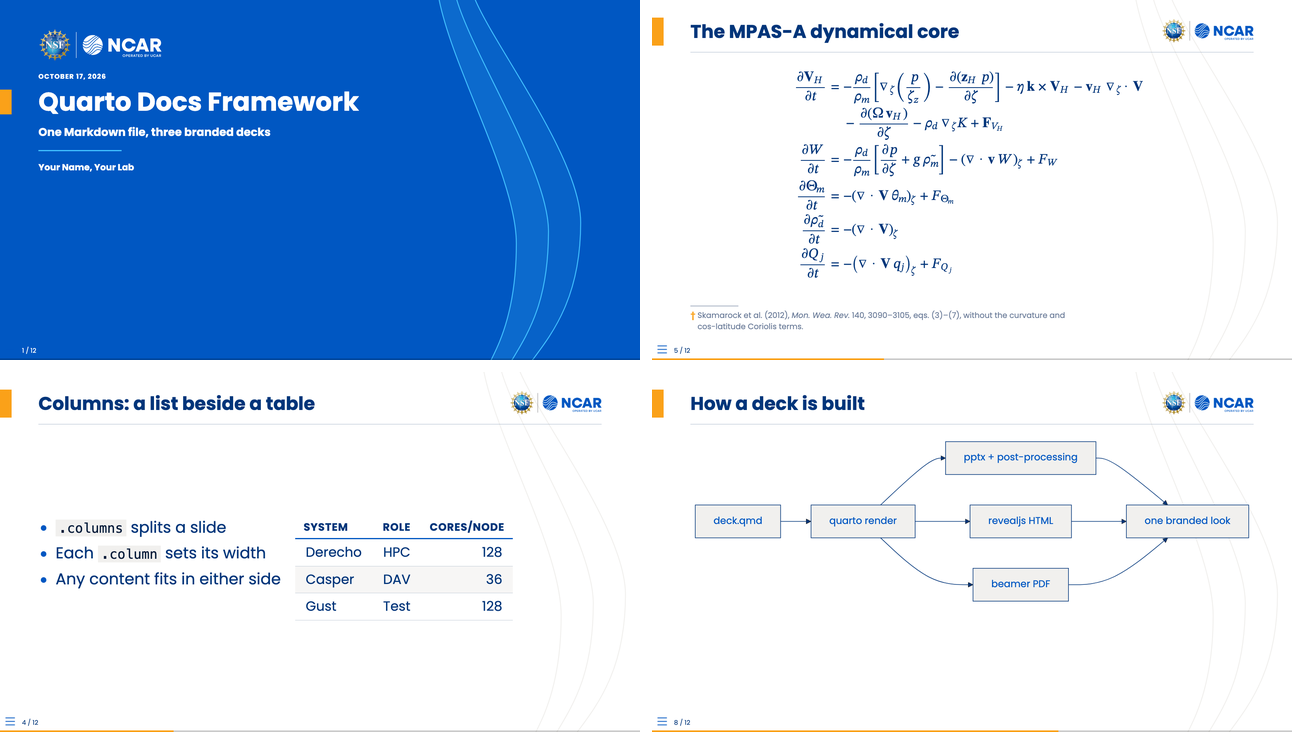
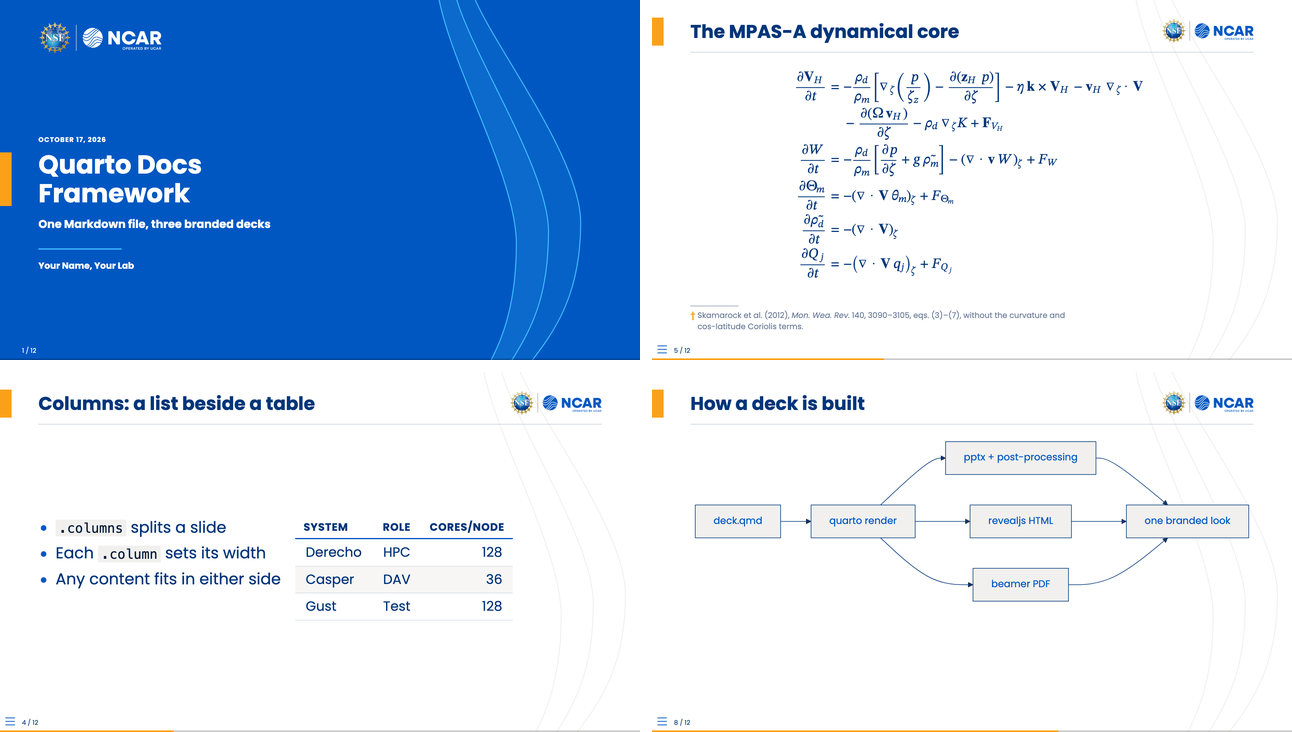
Docs for compositions and the type scale; vendor engine #29, #30 (ncar's lowered title); README images
Vendors the sprint's last engine steps: ncar's cover title from the brand pptx's 0.375 date
line (its flavors with it) and the engine docs. Design doc: section 4 names the feature and
compositions keys and livery.json's compositions and type; section 5 states the composition
contract (a new look is a box override, not a drawer) and the type scale; section 7 marks
the step done; section 10 logs it. CLAUDE.md: the roadmap's next step is NASA; a
Compositions bullet (the names, the drawers, `make measure`, the pptx's stack limits)
replaces the photo-slides one, and a Type bullet joins it. README: the photo title and
feature follow the livery's compositions and feature.style. nsi's notes: title=light under
the band is resolved (ignored, with a warning, in every format). The README images
(screenshots, the livery gallery) are reshot.

Claude-Session: https://claude.ai/code/session_01QxTZPtUJESWqMyXE15JCRv

Changed region(s): [[0.0, 0.0301, 0.2786, 0.3907]]

diff --git a/docs/common/_extensions/benkirk/engine/liveries/ncar/build/livery.css b/docs/common/_extensions/benkirk/engine/liveries/ncar/build/livery.css
@@ -110,9 +110,9 @@ div.reveal div.slides section.engine-title.quarto-title-block {
   --engine-cmp-signoff-b: 900px;
   --engine-cmp-column-display: block;
   --engine-cmp-column-x: 96px;
-  --engine-cmp-column-y: 180px;
+  --engine-cmp-column-y: 337.5px;
   --engine-cmp-column-w: 800px;
-  --engine-cmp-column-h: 594px;
+  --engine-cmp-column-h: 436.5px;
   --engine-cmp-column-r: 704px;
   --engine-cmp-column-b: 126px;
   --engine-cmp-fineprint-display: block;
@@ -186,9 +186,9 @@ div.reveal div.slides section.engine-title.quarto-title-block.engine-title-photo
   --engine-cmp-signoff-b: 900px;
   --engine-cmp-column-display: block;
   --engine-cmp-column-x: 96px;
-  --engine-cmp-column-y: 180px;
+  --engine-cmp-column-y: 337.5px;
   --engine-cmp-column-w: 704px;
-  --engine-cmp-column-h: 594px;
+  --engine-cmp-column-h: 436.5px;
   --engine-cmp-column-r: 800px;
   --engine-cmp-column-b: 126px;
   --engine-cmp-fineprint-display: block;
@@ -262,9 +262,9 @@ html.engine-title-light div.reveal div.slides section.engine-title.quarto-title-
   --engine-cmp-signoff-b: 900px;
   --engine-cmp-column-display: block;
   --engine-cmp-column-x: 96px;
-  --engine-cmp-column-y: 180px;
+  --engine-cmp-column-y: 337.5px;
   --engine-cmp-column-w: 800px;
-  --engine-cmp-column-h: 594px;
+  --engine-cmp-column-h: 436.5px;
   --engine-cmp-column-r: 704px;
   --engine-cmp-column-b: 126px;
   --engine-cmp-fineprint-display: block;
@@ -338,9 +338,9 @@ html.engine-title-light div.reveal div.slides section.engine-title.quarto-title-
   --engine-cmp-signoff-b: 900px;
   --engine-cmp-column-display: block;
   --engine-cmp-column-x: 96px;
-  --engine-cmp-column-y: 180px;
+  --engine-cmp-column-y: 337.5px;
   --engine-cmp-column-w: 704px;
-  --engine-cmp-column-h: 594px;
+  --engine-cmp-column-h: 436.5px;
   --engine-cmp-column-r: 800px;
   --engine-cmp-column-b: 126px;
   --engine-cmp-fineprint-display: block;

diff --git a/docs/common/_extensions/benkirk/engine/liveries/ncarucar/build/livery.css b/docs/common/_extensions/benkirk/engine/liveries/ncarucar/build/livery.css
@@ -110,9 +110,9 @@ div.reveal div.slides section.engine-title.quarto-title-block {
   --engine-cmp-signoff-b: 900px;
   --engine-cmp-column-display: block;
   --engine-cmp-column-x: 96px;
-  --engine-cmp-column-y: 180px;
+  --engine-cmp-column-y: 337.5px;
   --engine-cmp-column-w: 800px;
-  --engine-cmp-column-h: 594px;
+  --engine-cmp-column-h: 436.5px;
   --engine-cmp-column-r: 704px;
   --engine-cmp-column-b: 126px;
   --engine-cmp-fineprint-display: block;
@@ -186,9 +186,9 @@ div.reveal div.slides section.engine-title.quarto-title-block.engine-title-photo
   --engine-cmp-signoff-b: 900px;
   --engine-cmp-column-display: block;
   --engine-cmp-column-x: 96px;
-  --engine-cmp-column-y: 180px;
+  --engine-cmp-column-y: 337.5px;
   --engine-cmp-column-w: 704px;
-  --engine-cmp-column-h: 594px;
+  --engine-cmp-column-h: 436.5px;
   --engine-cmp-column-r: 800px;
   --engine-cmp-column-b: 126px;
   --engine-cmp-fineprint-display: block;
@@ -262,9 +262,9 @@ html.engine-title-light div.reveal div.slides section.engine-title.quarto-title-
   --engine-cmp-signoff-b: 900px;
   --engine-cmp-column-display: block;
   --engine-cmp-column-x: 96px;
-  --engine-cmp-column-y: 180px;
+  --engine-cmp-column-y: 337.5px;
   --engine-cmp-column-w: 800px;
-  --engine-cmp-column-h: 594px;
+  --engine-cmp-column-h: 436.5px;
   --engine-cmp-column-r: 704px;
   --engine-cmp-column-b: 126px;
   --engine-cmp-fineprint-display: block;
@@ -338,9 +338,9 @@ html.engine-title-light div.reveal div.slides section.engine-title.quarto-title-
   --engine-cmp-signoff-b: 900px;
   --engine-cmp-column-display: block;
   --engine-cmp-column-x: 96px;
-  --engine-cmp-column-y: 180px;
+  --engine-cmp-column-y: 337.5px;
   --engine-cmp-column-w: 704px;
-  --engine-cmp-column-h: 594px;
+  --engine-cmp-column-h: 436.5px;
   --engine-cmp-column-r: 800px;
   --engine-cmp-column-b: 126px;
   --engine-cmp-fineprint-display: block;

diff --git a/docs/common/_extensions/benkirk/engine/liveries/ucar/build/livery.css b/docs/common/_extensions/benkirk/engine/liveries/ucar/build/livery.css
@@ -110,9 +110,9 @@ div.reveal div.slides section.engine-title.quarto-title-block {
   --engine-cmp-signoff-b: 900px;
   --engine-cmp-column-display: block;
   --engine-cmp-column-x: 96px;
-  --engine-cmp-column-y: 180px;
+  --engine-cmp-column-y: 337.5px;
   --engine-cmp-column-w: 800px;
-  --engine-cmp-column-h: 594px;
+  --engine-cmp-column-h: 436.5px;
   --engine-cmp-column-r: 704px;
   --engine-cmp-column-b: 126px;
   --engine-cmp-fineprint-display: block;
@@ -186,9 +186,9 @@ div.reveal div.slides section.engine-title.quarto-title-block.engine-title-photo
   --engine-cmp-signoff-b: 900px;
   --engine-cmp-column-display: block;
   --engine-cmp-column-x: 96px;
-  --engine-cmp-column-y: 180px;
+  --engine-cmp-column-y: 337.5px;
   --engine-cmp-column-w: 704px;
-  --engine-cmp-column-h: 594px;
+  --engine-cmp-column-h: 436.5px;
   --engine-cmp-column-r: 800px;
   --engine-cmp-column-b: 126px;
   --engine-cmp-fineprint-display: block;
@@ -262,9 +262,9 @@ html.engine-title-light div.reveal div.slides section.engine-title.quarto-title-
   --engine-cmp-signoff-b: 900px;
   --engine-cmp-column-display: block;
   --engine-cmp-column-x: 96px;
-  --engine-cmp-column-y: 180px;
+  --engine-cmp-column-y: 337.5px;
   --engine-cmp-column-w: 800px;
-  --engine-cmp-column-h: 594px;
+  --engine-cmp-column-h: 436.5px;
   --engine-cmp-column-r: 704px;
   --engine-cmp-column-b: 126px;
   --engine-cmp-fineprint-display: block;
@@ -338,9 +338,9 @@ html.engine-title-light div.reveal div.slides section.engine-title.quarto-title-
   --engine-cmp-signoff-b: 900px;
   --engine-cmp-column-display: block;
   --engine-cmp-column-x: 96px;
-  --engine-cmp-column-y: 180px;
+  --engine-cmp-column-y: 337.5px;
   --engine-cmp-column-w: 704px;
-  --engine-cmp-column-h: 594px;
+  --engine-cmp-column-h: 436.5px;
   --engine-cmp-column-r: 800px;
   --engine-cmp-column-b: 126px;
   --engine-cmp-fineprint-display: block;

diff --git a/docs/common/_extensions/benkirk/engine/liveries/ucp/build/livery.css b/docs/common/_extensions/benkirk/engine/liveries/ucp/build/livery.css
@@ -110,9 +110,9 @@ div.reveal div.slides section.engine-title.quarto-title-block {
   --engine-cmp-signoff-b: 900px;
   --engine-cmp-column-display: block;
   --engine-cmp-column-x: 96px;
-  --engine-cmp-column-y: 180px;
+  --engine-cmp-column-y: 337.5px;
   --engine-cmp-column-w: 800px;
-  --engine-cmp-column-h: 594px;
+  --engine-cmp-column-h: 436.5px;
   --engine-cmp-column-r: 704px;
   --engine-cmp-column-b: 126px;
   --engine-cmp-fineprint-display: block;
@@ -186,9 +186,9 @@ div.reveal div.slides section.engine-title.quarto-title-block.engine-title-photo
   --engine-cmp-signoff-b: 900px;
   --engine-cmp-column-display: block;
   --engine-cmp-column-x: 96px;
-  --engine-cmp-column-y: 180px;
+  --engine-cmp-column-y: 337.5px;
   --engine-cmp-column-w: 704px;
-  --engine-cmp-column-h: 594px;
+  --engine-cmp-column-h: 436.5px;
   --engine-cmp-column-r: 800px;
   --engine-cmp-column-b: 126px;
   --engine-cmp-fineprint-display: block;
@@ -262,9 +262,9 @@ html.engine-title-light div.reveal div.slides section.engine-title.quarto-title-
   --engine-cmp-signoff-b: 900px;
   --engine-cmp-column-display: block;
   --engine-cmp-column-x: 96px;
-  --engine-cmp-column-y: 180px;
+  --engine-cmp-column-y: 337.5px;
   --engine-cmp-column-w: 800px;
-  --engine-cmp-column-h: 594px;
+  --engine-cmp-column-h: 436.5px;
   --engine-cmp-column-r: 704px;
   --engine-cmp-column-b: 126px;
   --engine-cmp-fineprint-display: block;
@@ -338,9 +338,9 @@ html.engine-title-light div.reveal div.slides section.engine-title.quarto-title-
   --engine-cmp-signoff-b: 900px;
   --engine-cmp-column-display: block;
   --engine-cmp-column-x: 96px;
-  --engine-cmp-column-y: 180px;
+  --engine-cmp-column-y: 337.5px;
   --engine-cmp-column-w: 704px;
-  --engine-cmp-column-h: 594px;
+  --engine-cmp-column-h: 436.5px;
   --engine-cmp-column-r: 800px;
   --engine-cmp-column-b: 126px;
   --engine-cmp-fineprint-display: block;

diff --git a/docs/design/engine-and-liveries.md b/docs/design/engine-and-liveries.md
@@ -154,6 +154,8 @@ liveries/<name>/
                   each field wears by its role (background, primary, the band's field);
                   installed-fonts {base, headings}: installed faces preferred over the
                   bundled ones; pptx {template, fonts, typeface, heading-typeface, scheme};
+                  feature {style: bar | cover}: the photo slide's look; compositions
+                  {<name>: {<key>: ...}}: overrides of the composition boxes (section 5);
                   aspect (16:9 default); overrides. Any other key is warned about
   template.pptx   THE SPEC: pandoc-compliant, derived from the reference deck (section 6)
   logos/          pdf (LaTeX) and png/svg (web, RGB), same basenames, light and dark variants
@@ -167,8 +169,9 @@ liveries/<name>/
   reference/      the customer's deck(s), extracted media, report.md, onboarding notes.
                   Never read at build time
   build/          GENERATED by livery_build.py, committed, freshness checked in CI:
-                  livery.json   the one resolved truth, extends applied, geometry included;
-                                Lua (quarto.json) and Python both read it
+                  livery.json   the one resolved truth, extends applied, geometry, marks,
+                                compositions and type included; Lua (quarto.json) and
+                                Python both read it
                   livery.sty    \definecolor palette, \colorlet roles, logo, font and
                                 geometry macros: what \usetheme[livery=...] inputs
                   livery.css    @font-face, logo and art url()s, :root{--engine-*} values
@@ -244,7 +247,17 @@ marks, art, divider) and merges an optional `compositions:` override; `feature.s
 cover` picks the photo slide's look per livery. Every format has one drawer that places its
 parts in those boxes (beamer `\engine@drawcomp`, the scss on `--engine-cmp-*` variables, the
 template builder's `field_layout`, the framework's `slide_layout.py`), so no composition
-number lives in theme code, and `comp_measure.py` checks every format against the boxes.
+number lives in theme code, and `comp_measure.py` (`make measure`) checks every format against
+the boxes; `docs/design/compositions-baseline.md` is the before-picture. A new composition, or
+a livery's own look for one, is data: a box override in `livery.yml`, not a fifth drawer.
+
+**Type** (2026-10-17): text sizes are fractions of the slide height, `livery.json` `type`: the
+body (0.0311, the HTML theme's 28 px of 900, which is the brand template's 12 pt of 405) and
+each role's size and leading as a ratio to it (lists 0.9 a level, subheads 1.1, slide titles
+1.643, tables 0.85, code 0.66, captions and footnotes 0.7, the title, divider and closing
+roles). beamer rescales LaTeX's size commands onto it, the template builder derives the
+master's ladder and the placeholders, the framework's post-processors take their roles
+(`livery.type_pt`), so a slide fits and overflows alike in every format.
 
 For `quarto-livery-decks`:
 
@@ -342,7 +355,8 @@ section and feature compositions are drawn four times (beamer, revealjs, the tem
 five places, several already disagreeing). Deferred after NSI "until the next new
 composition"; NASA is that, so it goes first: compositions described once as boxes in slide
 fractions in `livery.json` and drawn by every format (section 5, "Compositions"), in ten PRs
-written up for a fresh session in `docs/design/composition-handoff.md`.
+written up for a fresh session in `docs/design/composition-handoff.md`. Done 2026-10-17
+(engine 3.5.0), with a type-size pass across the formats (section 5, "Type").
 
 ## 8. Verification
 
@@ -377,6 +391,31 @@ written up for a fresh session in `docs/design/composition-handoff.md`.
 
 Newest first. The first unchecked item of section 7 is the next step.
 
+- **2026-10-17, compositions as boxes** (beamer-livery-theme #21-#30, 3.5.0; this repo #34-#38).
+  The title (cover, photo, light, photo-light, band), closing (and light, band), section and
+  feature slides are one `compositions` block of boxes in `build/livery.json`
+  (`livery_build.py compositions()`), drawn by one drawer per format: beamer
+  `\engine@drawcomp`, revealjs the generic `--engine-cmp-*` properties and `comp_art()`, the
+  template builder's `field_layout()` (with a new Closing (light) layout), and `slide_layout.py`'s
+  `draw_cover`/`draw_feature`. The disagreements were settled per the handoff's table, one
+  engine commit per row (`tools/test_compositions.py` names each change in `EXPECTED_DELTAS`),
+  plus one the table missed (the band's mark goes right without a sign-off). `make measure`
+  (`comp_measure.py`) shoots the four slides in every format and measures them against the
+  boxes; `docs/design/compositions-baseline.md` is the before-picture. After the switch every
+  HTML, PDF and pptx edge of the fixtures and the quickstart is within tolerance under ncar, cu
+  and nsi, except nsi's sign-off right edge (the same before: the lockup's thin type on art)
+  and the band's two-line pptx title stack (0.038, pptx centres it on the rule). Decided on the
+  way with Ben: ncar's cover title text sits where the brand pptx template puts it (from 0.375),
+  as the sprint's final commit; the feature looks are `feature.style: bar | cover`, ncar's
+  chosen from a contact sheet; on the feature panel beamer sets blocks as a heading over text
+  (a beamer block box took the frame's margins and spilled past the panel). Open: the body type
+  sizes disagreed across formats (PDF 0.043 of the slide height, pptx 0.037, HTML 0.031), deck
+  wide and older than the sprint; at Ben's request a type pass made them fractions of the slide
+  height (section 5, "Type"; HTML's scale, the brand template's): on a deck of plain content,
+  block heights against HTML went from PDF 1.31x / pptx 1.10x to within 1-3% for lists, 6% for
+  tables and 10% for paragraphs, the same line breaks in every format. Found on the way:
+  `deck_qa.py` counted the feature's new bar as content; beamer still centres a frame's content
+  vertically where HTML and pptx anchor it at the top. Next: NASA.
 - **2026-10-17, the composition handoff.** Ben asked whether the deferred title-slide
   refactor should go before NASA. A code survey put numbers on the retrospective's friction:
   about twenty quantities (wave opacities, the cover band, the photo split, the mark offsets

diff --git a/CLAUDE.md b/CLAUDE.md
@@ -8,8 +8,8 @@ structure or conventions below change.
 A [Quarto](https://quarto.org) framework for documentation decks (`.pptx`
 primary; `.html`/revealjs and `.pdf`/beamer secondary), and the **multi-brand
 successor** of `benkirk/quarto-docs-framework` (the `upstream` remote), which
-stays the NCAR framework. `docs/design/engine-and-liveries.md` is the roadmap (next: `docs/design/composition-handoff.md`,
-the title/closing/section/feature compositions as boxes in the livery data, then NASA):
+stays the NCAR framework. `docs/design/engine-and-liveries.md` is the roadmap (next: NASA; the compositions and the
+type scale are done, 2026-10-17):
 a generalized **engine** (the vendored theme, forked as
 `benkirk/beamer-livery-theme`) plus per-brand **livery** directories under
 `docs/common/liveries/`; its section 10 logs progress and names the next step.
@@ -112,19 +112,27 @@ Make creates in each deck directory. `ci-consumer.yaml` builds a deck that way.
   (hiding the master's logo, tab, rule and waves), deletes the title, fits the
   one picture to the slide and centers pandoc's caption box under it. Any other
   body is left alone with a warning. `make qa` fails a caption that wraps.
-- **Photo slides** (`{.feature background-image=...}`, and `titlegraphic:` for the
-  title slide): HTML and PDF are the theme's. pptx builds the brand cover from
-  parts in `slide_layout.py`: pandoc's slide background (or the `titlegraphic`
-  it records in `docProps/custom.xml`) becomes a full-slide picture at the back
-  of the shape order, cropped to cover, with the livery's opaque field, 65% band
-  and wave lines over it (the engine's `pptx_waves.py`, shared with the template
-  builder), the primary field's mark, and the title and body moved onto the field.
-  A `###` block is the body's lead line. Slide shapes always draw above layout
-  shapes, so the cover must redraw the waves, logo and sign-off on the slide itself.
-  A livery's `art.titlegraphic` is the title photo for decks that set none. Under
-  `title: {style: band}` (engine >= 3.1.0) the Title Slide layout is the band itself
-  (`livery_template.py`: field, `art.title`, band, default photo, the strip's mark and
-  sign-off), and `slide_layout.py` only drops a deck's photo into the band box.
+- **Compositions** (engine >= 3.5.0): the title (`title`, `title-photo`, `title-light`,
+  `title-photo-light`, `title-band`), closing (`closing`, `closing-light`, `closing-band`),
+  `section` and `feature` slides are boxes in `build/livery.json` `compositions` (`[x, y, w, h]`
+  slide fractions, y down; every key, null when absent), derived by the engine's
+  `livery_build.py` from the livery's knobs; `livery.yml` `compositions:` overrides a box (one on
+  `title` reaches its variants; ncar's lowers the cover title to the brand template's 0.375) and
+  `feature.style: bar | cover` picks the photo slide's look. One drawer per format reads them:
+  beamer `\engine@drawcomp`, the revealjs `--engine-cmp-*` properties and `comp_art()`, the
+  template builder's `field_layout()` (Title Slide, Title Slide (light), Section Header, Closing,
+  Closing (light)), and `slide_layout.py`'s `draw_cover()` (the title photo, cropped into its
+  box under the field and waves) and `draw_feature()`. Slide shapes always draw above layout
+  shapes, so a pptx cover redraws its field, waves and marks on the slide. **`make measure`**
+  (`comp_measure.py`; `MEASURE_FAIL` the formats whose deltas fail, CI report-only) shoots the
+  four slides in every format and measures them against the boxes: `_qa/measure.tsv` and the
+  contact sheet `_qa/compositions-<livery>.png`; `docs/design/compositions-baseline.md` is the
+  before-picture. The pptx can't flow a stack: a band's date is placed above the title's
+  estimated text, a closing splits its column at the middle.
+- **Type** (engine >= 3.5.0): text sizes are fractions of the slide height (`livery.json`
+  `type`, the HTML theme's scale, which is the brand template's), so beamer, the pptx templates
+  and the post-processors (`livery.type_pt`) set text as large as HTML does and the formats fit
+  and overflow alike. A size changes in the engine's `TYPE` and the scss together.
 - **Marks and numbers** are livery parameters (`signoff`, `geometry.logo.corner`,
   `geometry.pagenumber.corner`; defaults are NCAR's layout) that the three themes
   and `livery_template.py` all honor. Which mark and sign-off a field wears goes by

diff --git a/README.md b/README.md
@@ -239,7 +239,7 @@ which is vendored in `docs/common/_extensions/benkirk/engine/`. Make symlinks
   (cu: Helvetica Neue); `fonts=brand` then uses it where it is installed,
   see "Installed brand fonts" below.
   - `titlegraphic: images/photo.jpg` puts a photo on the title slide, behind
-    the wave band, in every format (pptx: `slide_layout.py` builds the cover).
+    the wave band, in every format (the livery's `title-photo` composition).
     A livery may set a default (`art.titlegraphic`; nsi's campus photo).
   - `fineprint: "..."` adds small print under the title block.
   - `mathfont=stix` (or `lm`, `pagella`, `sans`, `fira`, `poppins`, any
@@ -251,8 +251,9 @@ which is vendored in `docs/common/_extensions/benkirk/engine/`. Make symlinks
 - **Markdown extras:**
   - `## Title {.feature background-image="images/photo.jpg"}` makes a
     full-bleed photo slide (`background=` also works; `background-image=`
-    doubles as the revealjs background). In pptx it is the title slide's
-    cover: the photo behind the wave band, the text on the brand field.
+    doubles as the revealjs background). Its look is the livery's `feature.style`:
+    `bar` (the title on a dark bar, the text on a translucent panel; the default) or
+    `cover` (the title cover's field and waves, the photo beside them), in every format.
   - `## Title {.full}` gives one diagram or image the whole slide: no title,
     logo or rule, and the paragraph after it becomes a one-line caption. The
     title stays in the source for navigation and `make qa`. pptx gets it

diff --git a/docs/common/liveries/nsi/reference/notes.md b/docs/common/liveries/nsi/reference/notes.md
@@ -62,7 +62,6 @@ slide: the constellation field, as the deck's last slide.
 - The deck's "Helvetica Neue Extra Black Cond" headlines are not reproduced (cu's Heros Cn
   headings stand in).
 - The rights of the deck's photos are NSI's; check before any use outside NSI decks.
-- `title=light` differs by format (seen on the fixture decks' contact sheet, 2026-10-16): the
-  pptx draws the white light cover (`Title Slide (light)`), HTML and PDF keep the band. One of
-  the drifts the deferred composition work (design section 7) removes; until then a light
-  title is not an nsi look.
+- `title=light` is ignored under the band, with a warning, in every format (since the
+  compositions, 2026-10-17; before, the pptx drew the white light cover while HTML and PDF kept
+  the band). A light title is not an nsi look.
